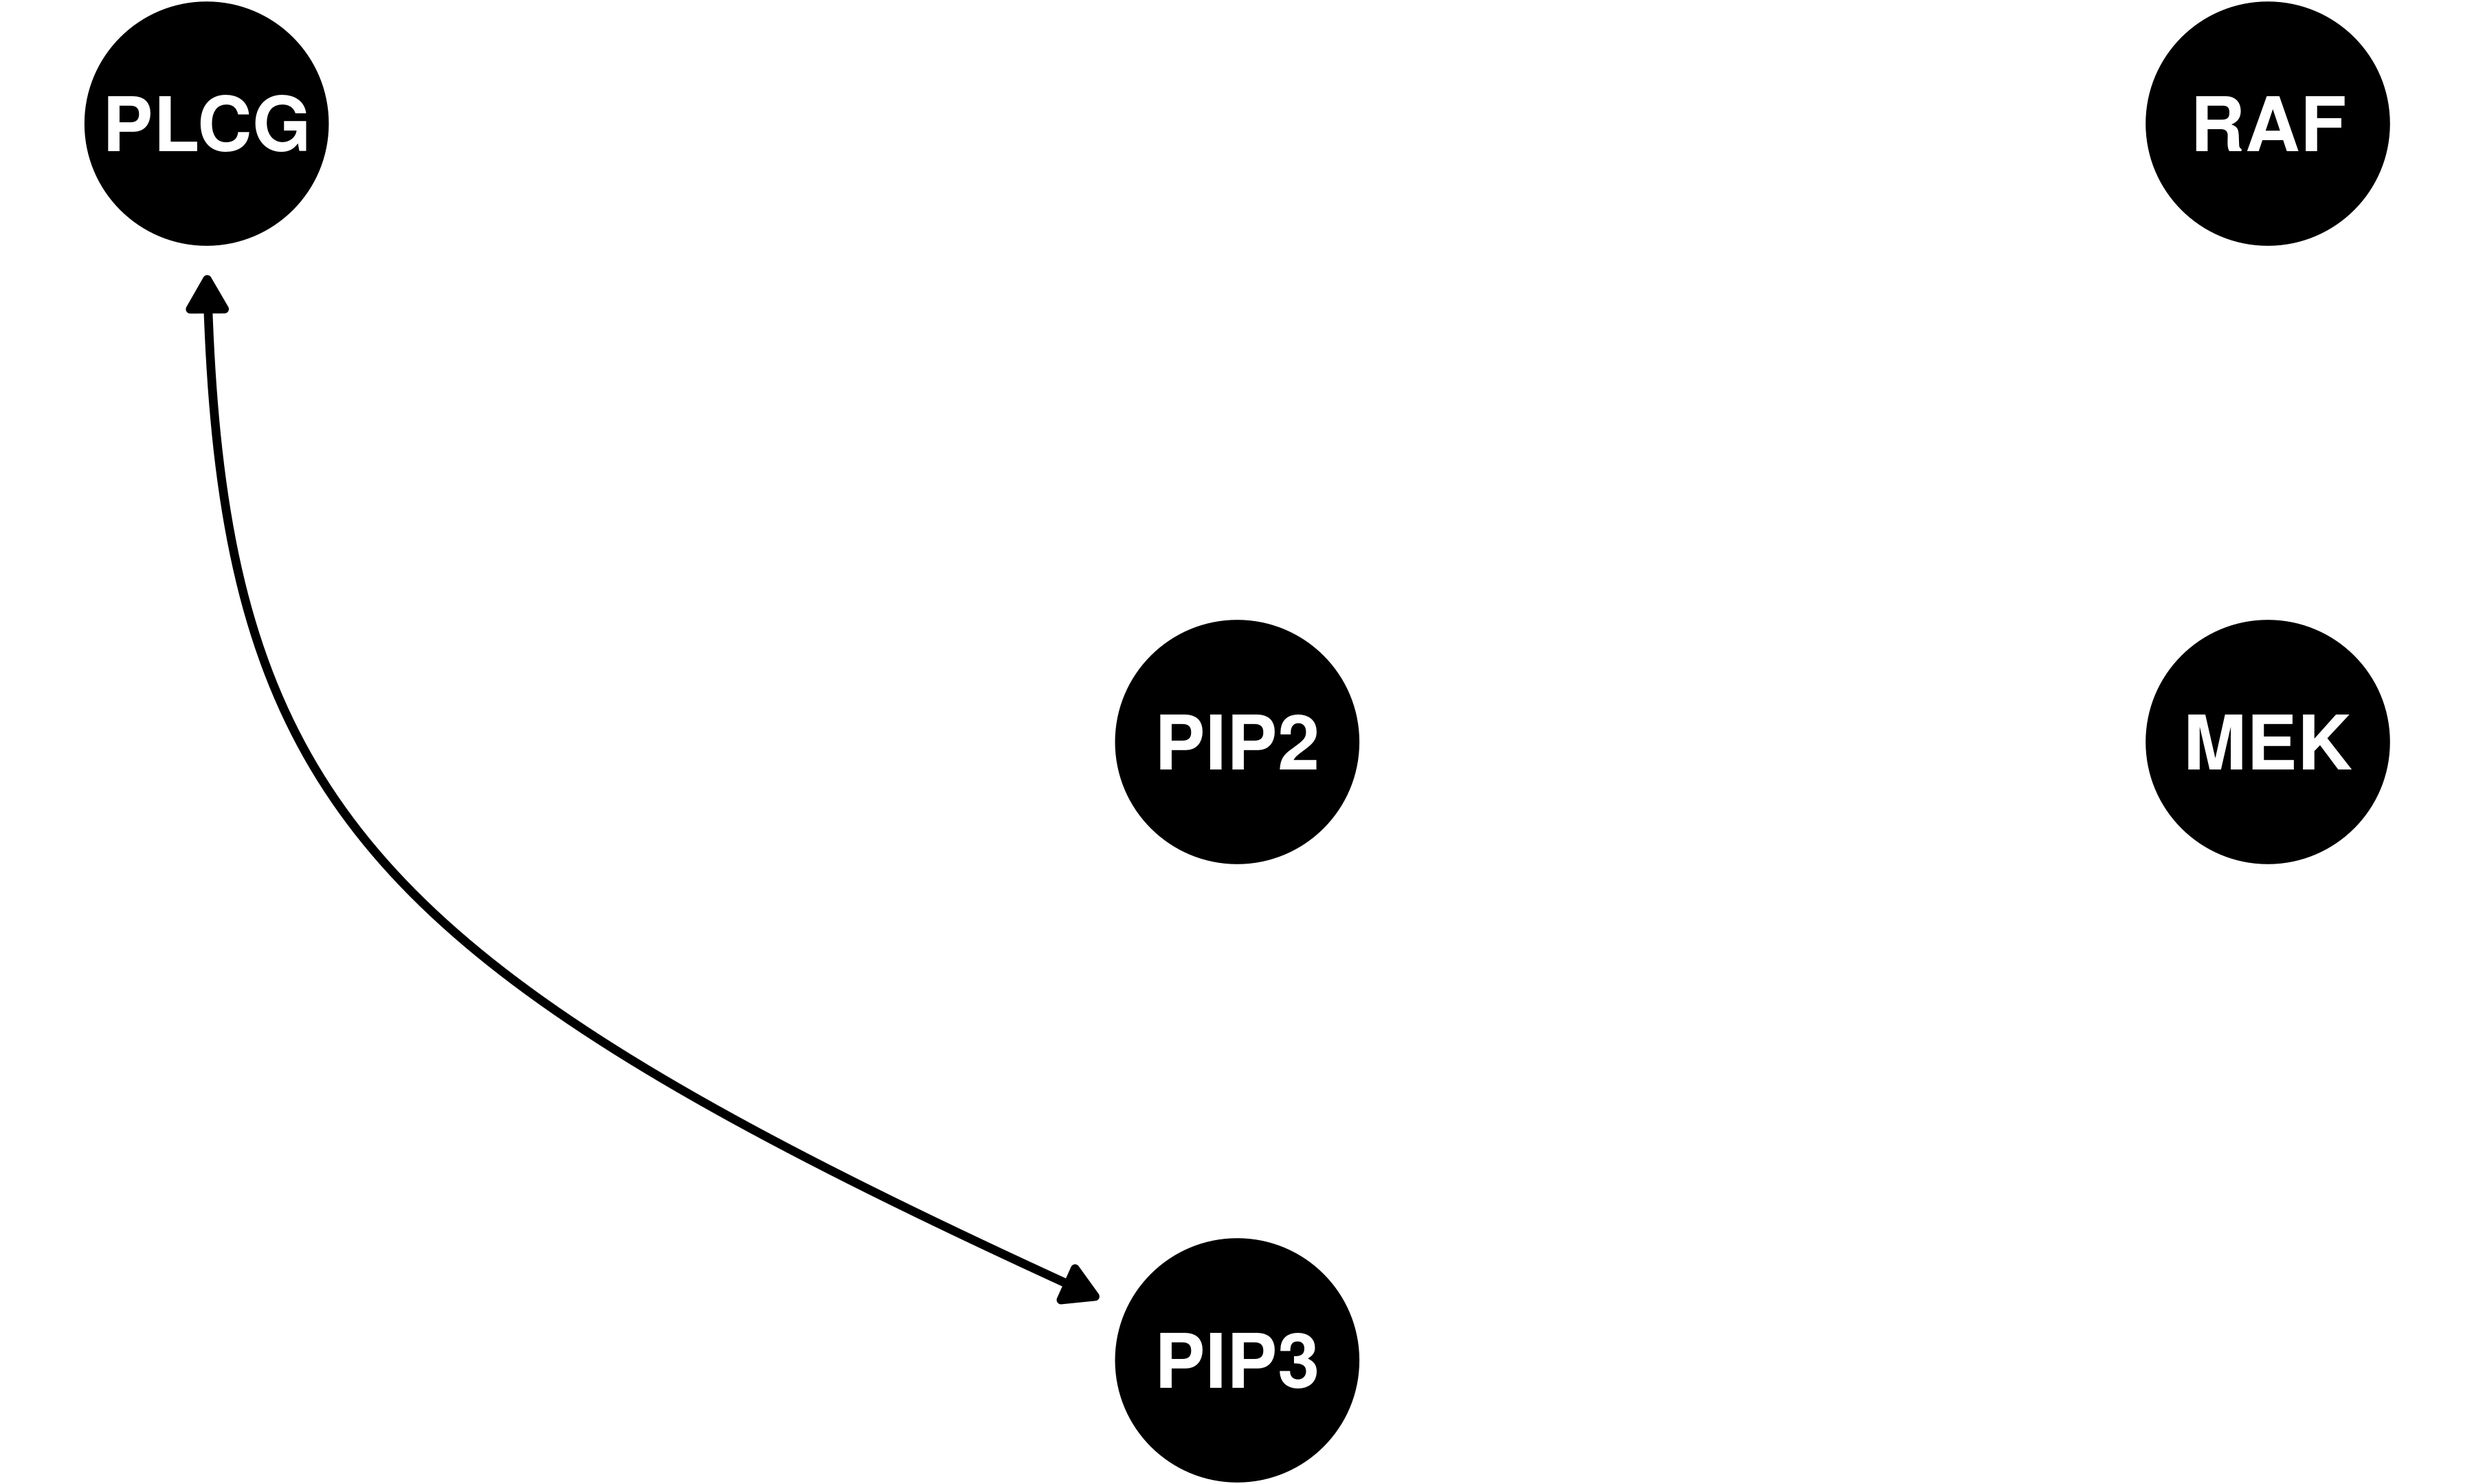
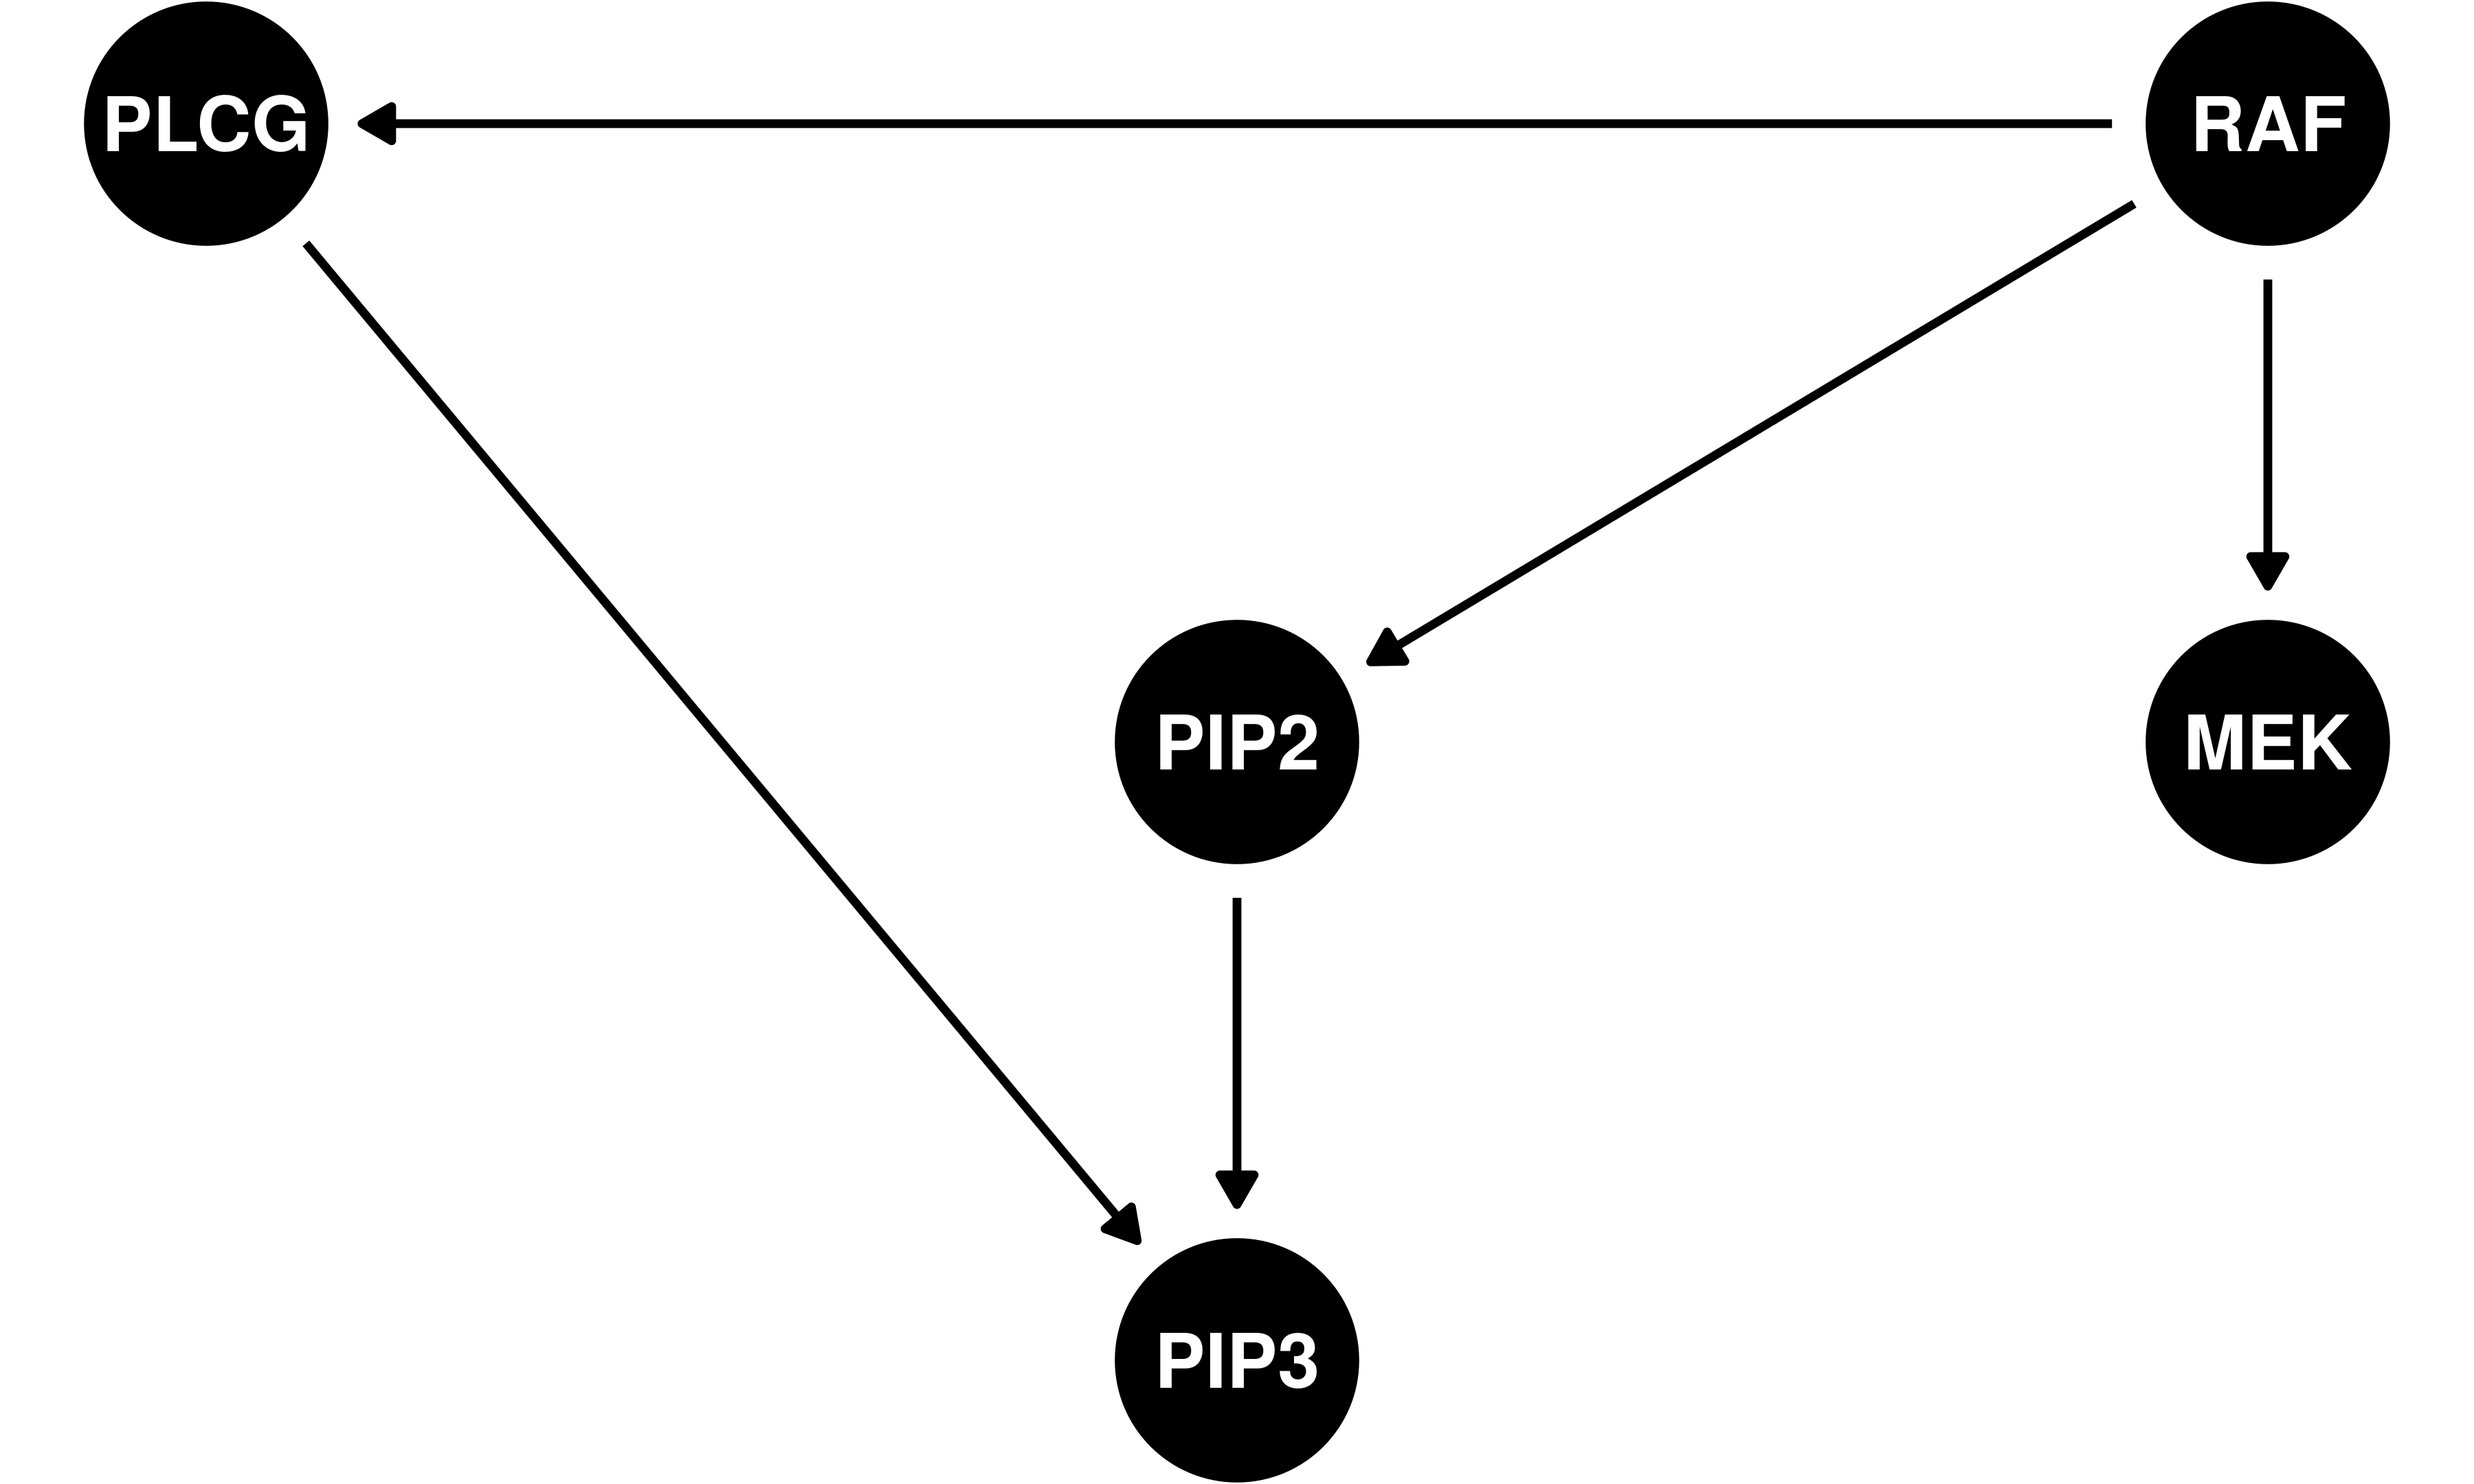
Almost finalized

diff --git a/index.html b/index.html
@@ -127,7 +127,7 @@ install.packages("bnlearn")
 &lt;img src="index_files/figure-html/unnamed-chunk-2-1.png" style="display: block; margin: auto;" /&gt;
 
 `$$\begin{align}
-P(\cdot)  = &amp; \, P(\text{PLCG}) \cdot P(\text{RAF}) \\ &amp; \cdot P(\text{MEK} \mid \text{RAF}) \\ &amp; \cdot P(\text{PIP2} \mid \text{RAF}, \text{PLCG}) \\ &amp; \cdot P(\text{PIP3} \mid \text{PIP2})
+P(\cdot \mid \theta, G)  = &amp; \, P(\text{PLCG}) \cdot P(\text{RAF}) \\ &amp; \cdot P(\text{MEK} \mid \text{RAF}) \\ &amp; \cdot P(\text{PIP2} \mid \text{RAF}, \text{PLCG}) \\ &amp; \cdot P(\text{PIP3} \mid \text{PIP2})
 \end{align}$$`
 ]
 
@@ -136,7 +136,7 @@ A Bayesian network is a probability distribution `\(P\)` of a multivariate rando
 
 - nodes: random variables `\(X_i\)`
 - edges: conditional dependencies
-- factorization: `\(P(X) = \prod_i P(X_i \mid \mathbf{pa}_i)\)`
+- factorization: `\(P(X \mid \theta, G) = \prod_i P(X_i \mid \mathbf{pa}_i)\)`
 ]
 
 ---
@@ -148,73 +148,71 @@ A Bayesian network is a probability distribution `\(P\)` of a multivariate rando
 ]
 
 .left-column[
-Gene expression levels of some genes
+
+Dependent gene expression levels
+
+
+```r
+head(data)
+```
 
 ```
-## # A tibble: 500 x 5
-##    MEK    PIP2   PIP3   PLCG   RAF   
-##    &lt;fct&gt;  &lt;fct&gt;  &lt;fct&gt;  &lt;fct&gt;  &lt;fct&gt; 
-##  1 Medium Low    High   Medium Medium
-##  2 High   Low    Medium Medium High  
-##  3 Low    Low    Medium High   Medium
-##  4 Medium Medium Medium Medium Medium
-##  5 Medium Low    Low    Low    Medium
-##  6 Low    Medium Low    High   Medium
-##  7 Medium Low    Low    Low    Medium
-##  8 Medium Medium High   Medium Low   
-##  9 High   Low    Low    Medium Low   
-## 10 High   Low    Low    Low    Medium
-## # … with 490 more rows
+##      MEK   PIP2   PIP3   PLCG    RAF
+## 1 Medium    Low   High Medium Medium
+## 2   High    Low Medium Medium   High
+## 3    Low    Low Medium   High Medium
+## 4 Medium Medium Medium Medium Medium
+## 5 Medium    Low    Low    Low Medium
+## 6    Low Medium    Low   High Medium
 ```
 ]
 
 ---
 
-# Discrete Bayesian networks
+# A BN of dependent genes
 
 .right-column[
-&lt;img src="index_files/figure-html/unnamed-chunk-5-1.png" width="10%" style="display: block; margin: auto;" /&gt;
+&lt;img src="index_files/figure-html/unnamed-chunk-5-1.png" width="60%" style="display: block; margin: auto;" /&gt;
 
 .small[
 
-```r
-(raf_high &lt;- sum(data$RAF == "High"))
-```
-
-```
-## [1] 125
-```
 
 ```r
-(mek_med_raf_high &lt;- sum(data$MEK == "Medium" &amp; data$RAF == "High"))
-```
-
-```
-## [1] 62
-```
-
-```r
+raf_high &lt;- sum(data$RAF == "High")
+mek_med_raf_high &lt;- sum(data$MEK == "Medium" &amp; data$RAF == "High")
 mek_med_raf_high / raf_high
 ```
 
 ```
 ## [1] 0.496
 ```
+
 ]
 
 ]
 
 .left-column[
-Conditional probabilities of MEK expression
+Local probabilities of MEK expression `\(P(\text{MEK} \mid \text{RAF})\)`
 &lt;img src="index_files/figure-html/unnamed-chunk-7-1.png" style="display: block; margin: auto;" /&gt;
 ]
 
 ---
 
-# Discrete Bayesian networks
+# A BN of dependent genes
 
-Conditional probabilities of PIP2 expression
+Local probabilities of PIP2 expression `\(P(\text{PIP2} \mid \text{PLCG}, \text{RAF})\)`
 &lt;img src="index_files/figure-html/unnamed-chunk-8-1.png" style="display: block; margin: auto;" /&gt;
+
+
+---
+
+# A BN of dependent genes
+
+Usually the structure of the BN is not known. We need to learn the edges and fit the parameters `\(\theta\)`.
+
+.centeredtwo[
+&lt;img src="index_files/figure-html/unnamed-chunk-9-1.png" width="60%" style="display: block; margin: auto;" /&gt;
+]
 
 ---
 
@@ -226,6 +224,7 @@ Conditional probabilities of PIP2 expression
 - A method for learning the structure:
   - Score-based learning (e.g., using BIC as score)
   - Constraint-based learning (i.e., using CI)
+- A method for inferring parameters: MAP or MLE
 - Understanding what the learned BN *can* tell us
 
 ---
@@ -236,7 +235,7 @@ Search space of DAGs and find the one that maximizes a score, e.g. BIC: `\(\text
 
 .onethirdcolumn[
 
-&lt;img src="index_files/figure-html/unnamed-chunk-9-1.png" style="display: block; margin: auto;" /&gt;
+&lt;img src="index_files/figure-html/unnamed-chunk-10-1.png" style="display: block; margin: auto;" /&gt;
 
 
 ```r
@@ -246,7 +245,7 @@ Search space of DAGs and find the one that maximizes a score, e.g. BIC: `\(\text
 ]
 
 .onethirdcolumnborder[
-&lt;img src="index_files/figure-html/unnamed-chunk-11-1.png" style="display: block; margin: auto;" /&gt;
+&lt;img src="index_files/figure-html/unnamed-chunk-12-1.png" style="display: block; margin: auto;" /&gt;
 
 
 ```r
@@ -256,7 +255,7 @@ Search space of DAGs and find the one that maximizes a score, e.g. BIC: `\(\text
 ]
 
 .onethirdcolumn[
-&lt;img src="index_files/figure-html/unnamed-chunk-13-1.png" style="display: block; margin: auto;" /&gt;
+&lt;img src="index_files/figure-html/unnamed-chunk-14-1.png" style="display: block; margin: auto;" /&gt;
 
 
 ```r
@@ -272,7 +271,7 @@ Search space of DAGs and find the one that maximizes a score, e.g. BIC: `\(\text
 Test conditional independence of pairs of variables.
 
 .right-column[
-&lt;img src="index_files/figure-html/unnamed-chunk-15-1.png" style="display: block; margin: auto;" /&gt;
+&lt;img src="index_files/figure-html/unnamed-chunk-16-1.png" style="display: block; margin: auto;" /&gt;
 
 ]
 
@@ -294,7 +293,7 @@ x2 = 22.44, df = 4, p-value = 0.0001638
 Remove edges if variables are conditionally independent.
 
 .right-column[
-&lt;img src="index_files/figure-html/unnamed-chunk-17-1.png" style="display: block; margin: auto;" /&gt;
+&lt;img src="index_files/figure-html/unnamed-chunk-18-1.png" style="display: block; margin: auto;" /&gt;
 ]
 
 .left-column[
@@ -316,17 +315,17 @@ x2 = 90.678, df = 108, p-value = 0.8854
 Cannot (generally) learn direction of edges from observational data. All three DAGs have same score and encode same CIs!
 
 .onethirdcolumn[
-&lt;img src="index_files/figure-html/unnamed-chunk-19-1.png" style="display: block; margin: auto;" /&gt;
+&lt;img src="index_files/figure-html/unnamed-chunk-20-1.png" style="display: block; margin: auto;" /&gt;
 ]
 
 .onethirdcolumn[
-&lt;img src="index_files/figure-html/unnamed-chunk-20-1.png" style="display: block; margin: auto;" /&gt;
+&lt;img src="index_files/figure-html/unnamed-chunk-21-1.png" style="display: block; margin: auto;" /&gt;
 &lt;br&gt;&lt;br&gt;
 `\(X \not\!\perp\!\!\!\perp Z\)`, `\(X \perp\!\!\!\perp Z \mid Y\)`
 ]
 
 .onethirdcolumn[
-&lt;img src="index_files/figure-html/unnamed-chunk-21-1.png" style="display: block; margin: auto;" /&gt;
+&lt;img src="index_files/figure-html/unnamed-chunk-22-1.png" style="display: block; margin: auto;" /&gt;
 ]
 
 ---
@@ -336,7 +335,7 @@ Cannot (generally) learn direction of edges from observational data. All three D
 *Can* learn direction of immorality.
 
 .centeredtwo[
-&lt;img src="index_files/figure-html/unnamed-chunk-22-1.png" style="display: block; margin: auto;" /&gt;
+&lt;img src="index_files/figure-html/unnamed-chunk-23-1.png" style="display: block; margin: auto;" /&gt;
 &lt;br&gt;&lt;br&gt;
 `\(X \perp\!\!\!\perp Z\)`, `\(X \not\!\perp\!\!\!\perp Z \mid Y\)`
 ]
@@ -347,7 +346,7 @@ Cannot (generally) learn direction of edges from observational data. All three D
 
 .left-column[
 
-&lt;img src="index_files/figure-html/unnamed-chunk-23-1.png" style="display: block; margin: auto;" /&gt;
+&lt;img src="index_files/figure-html/unnamed-chunk-24-1.png" style="display: block; margin: auto;" /&gt;
 
 
 ```r
@@ -357,7 +356,7 @@ Cannot (generally) learn direction of edges from observational data. All three D
 ]
 
 .right-column[
-&lt;img src="index_files/figure-html/unnamed-chunk-25-1.png" style="display: block; margin: auto;" /&gt;
+&lt;img src="index_files/figure-html/unnamed-chunk-26-1.png" style="display: block; margin: auto;" /&gt;
 
 
 ```r
@@ -372,7 +371,7 @@ Cannot (generally) learn direction of edges from observational data. All three D
 
 Can only learn a BN up to its *Markov equivalence class*, i.e. the *completed partially directed acycled graph*.
 .left-column[
-&lt;img src="index_files/figure-html/unnamed-chunk-27-1.png" style="display: block; margin: auto;" /&gt;
+&lt;img src="index_files/figure-html/unnamed-chunk-28-1.png" style="display: block; margin: auto;" /&gt;
 ]
 .right-column[
 **Crucial detail!** Remember this when interpreting the structure of a BN. Edges can be deceiving and in some cases turned around.
@@ -398,7 +397,7 @@ Can only learn a BN up to its *Markov equivalence class*, i.e. the *completed pa
 # Gaussian Bayesian networks
 
 .right-column[
-&lt;img src="index_files/figure-html/unnamed-chunk-28-1.png" style="display: block; margin: auto;" /&gt;
+&lt;img src="index_files/figure-html/unnamed-chunk-29-1.png" style="display: block; margin: auto;" /&gt;
 ]
 
 .left-column[
@@ -427,7 +426,7 @@ Gene expression levels
 # Gaussian Bayesian networks
 
 .right-column[
-&lt;img src="index_files/figure-html/unnamed-chunk-30-1.png" style="display: block; margin: auto;" /&gt;
+&lt;img src="index_files/figure-html/unnamed-chunk-31-1.png" style="display: block; margin: auto;" /&gt;
 ]
 
 .left-column[
